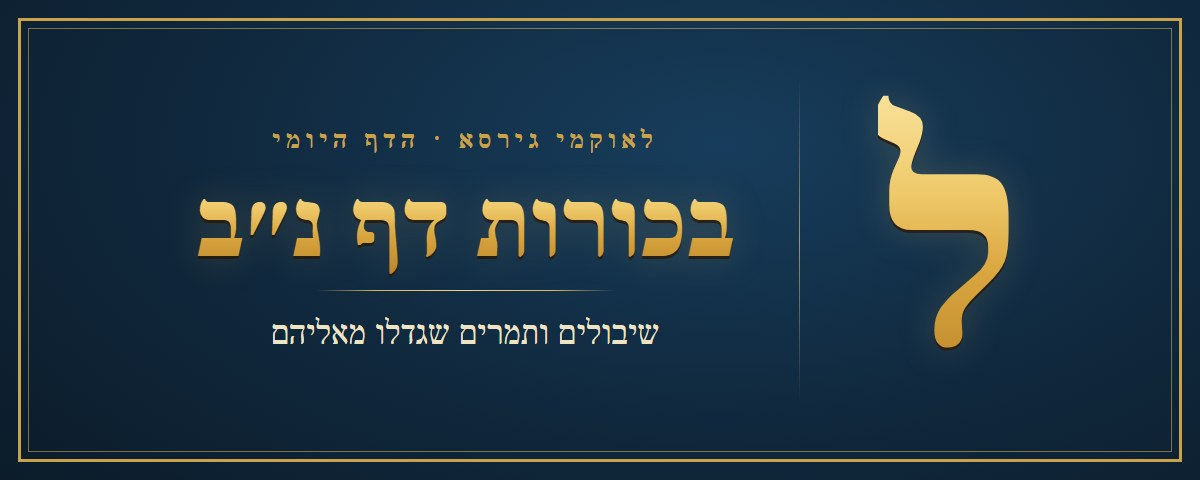
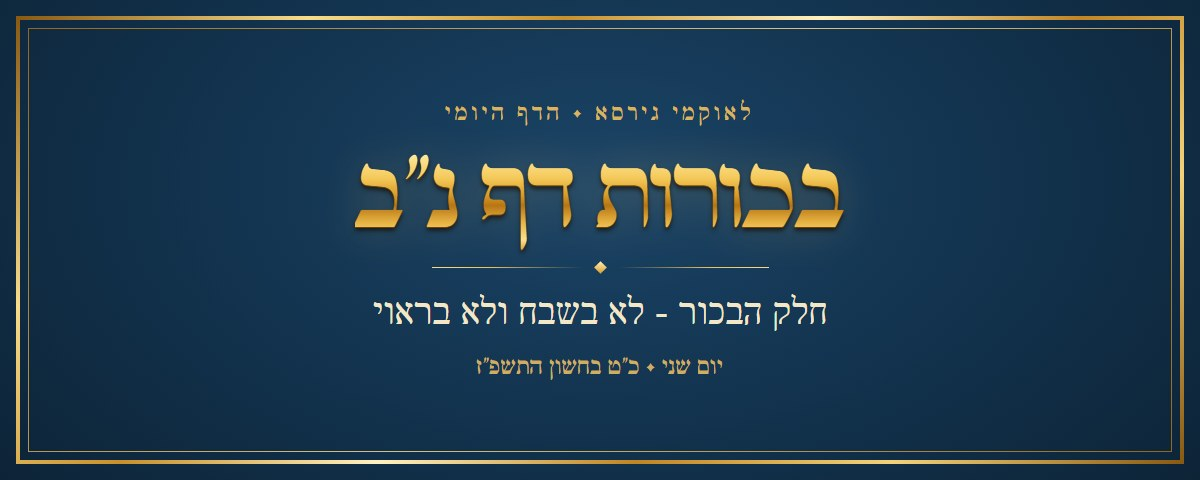
הדף היומי, לפי בעל הפרויקט: הכרטיס בלי ל', בגופן BA Vilna, זהב עשיר ועם היום והתאריך; כותרת מגדירה לכל דף במקום עניין צדדי; ההודעה - השאלה מודגשת ראשונה, בלי 'הידעת', 'עוד X דפים' בגופן קוד, הקישור בסוף

Changed region(s): [[0.1542, 0.2188, 0.7092, 0.8125], [0.0, 0.0312, 0.9867, 0.9688], [0.7092, 0.1875, 0.8633, 0.75]]

diff --git a/tools/daf_wa/card.html b/tools/daf_wa/card.html
@@ -1,37 +1,57 @@
 <!DOCTYPE html>
 <html lang="he" dir="rtl"><head><meta charset="utf-8">
 <style>
-/* כרטיס התצוגה המקדימה של הדף (פרומפט 23): 1200x480, בשפת הסמל של האתר (og-image): כחול קטיפה, מסגרת זהב כפולה, ל' מזהב.
+/* כרטיס התצוגה המקדימה של הדף (פרומפט 23): 1200x480, כחול קטיפה ומסגרת זהב כפולה.
    כל התוכן בתוך המרכז (917 פיקסלים), כדי שגם חיתוך ליחס 1.91 (פייסבוק ודומיו) לא יקצץ אותו.
-   8.11.2026 (בעל הפרויקט): שם הדף בוילנא, הכרטיס נמוך - שלא יתפוס יותר מדי מן המסך, ונראות מכובדת. בלי רקעי הדגשה מאחורי טקסט. */
+   8.11.2026 ערב (בעל הפרויקט): בלי ה-ל' - מיותר; גופן וילנא של בית אלף (BA Vilna) שלו; זהב שנראה זהב;
+   היום והתאריך בתוך התמונה, כדי שלא יתפסו שורות בהודעה; והשורה שמתחת לשם הדף - כותרת שמגדירה את הדף, לא עניין צדדי. */
+@font-face{font-family:'BAV';src:url(@@BA_B@@);font-weight:700}
+@font-face{font-family:'BAV';src:url(@@BA_R@@);font-weight:400}
 @font-face{font-family:'Frank';src:url(@@FONTS@@/frank.woff2) format('woff2');font-weight:400}
-@font-face{font-family:'Vilna';src:url(@@FONTS@@/vilna-r.woff2) format('woff2');font-weight:400}
-@font-face{font-family:'Vilna';src:url(@@FONTS@@/vilna-b.woff2) format('woff2');font-weight:700}
 html,body{margin:0;width:1200px;height:480px;overflow:hidden}
-body{background:radial-gradient(90% 120% at 60% 30%,#173d5c 0%,#10283d 48%,#0a1824 100%);font-family:'Frank',serif;position:relative}
-.f1{position:absolute;inset:18px;border:3px solid #c9a24a}
-.f2{position:absolute;inset:28px;border:1px solid rgba(214,180,100,.55)}
-.gold{background:linear-gradient(180deg,#fbe7a6 0%,#efc96a 38%,#d9a53f 62%,#b98327 100%);-webkit-background-clip:text;background-clip:text;color:transparent;
-      filter:drop-shadow(0 3px 0 rgba(40,24,6,.75)) drop-shadow(0 0 18px rgba(240,200,110,.18))}
-.lam{position:absolute;right:178px;top:50%;transform:translateY(-52%);font-family:'Vilna',serif;font-weight:700;font-size:330px;line-height:1}
-.sep{position:absolute;right:400px;top:78px;bottom:78px;width:1px;background:linear-gradient(180deg,transparent,rgba(214,180,100,.75),transparent)}
-.txt{position:absolute;right:420px;left:150px;top:0;bottom:0;display:flex;flex-direction:column;align-items:center;justify-content:center;text-align:center}
-.brand{font-family:'Vilna',serif;font-weight:700;font-size:27px;letter-spacing:.2em;color:#c9a24a}
-.daf{font-family:'Vilna',serif;font-weight:700;font-size:104px;line-height:1.08;margin:10px 0 6px;white-space:nowrap}
-.rule{width:300px;height:1.5px;background:linear-gradient(90deg,transparent,#d6b464 20%,#f0d690 50%,#d6b464 80%,transparent);margin:6px 0 18px}
-.line{font-family:'Frank',serif;font-size:36px;line-height:1.3;color:#efe3c4;max-width:620px}
+body{background:radial-gradient(85% 130% at 50% 38%,#1b4467 0%,#11304a 45%,#0a1a28 100%);font-family:'Frank',serif;position:relative}
+/* מסגרת זהב: פס רחב בשיפוע מתכתי, ופס דק בתוכו */
+.f1{position:absolute;inset:16px;border:4px solid transparent;border-image:linear-gradient(135deg,#8a5a12,#f7dc8a 18%,#c8902c 34%,#fff1bf 50%,#c08524 66%,#f3d27a 82%,#8a5a12) 1}
+.f2{position:absolute;inset:28px;border:1px solid transparent;border-image:linear-gradient(135deg,#a8741d,#f6dc90 50%,#a8741d) 1;opacity:.85}
+.gold{background:linear-gradient(180deg,#fff8d6 0%,#ffe9a0 18%,#f4c95a 38%,#d99a26 52%,#b77514 60%,#e8b545 74%,#fbe08c 88%,#c98a1e 100%);
+      -webkit-background-clip:text;background-clip:text;color:transparent;
+      filter:drop-shadow(0 1px 0 #6b4308) drop-shadow(0 3px 2px rgba(20,10,0,.65)) drop-shadow(0 0 22px rgba(255,205,100,.22))}
+.txt{position:absolute;right:150px;left:150px;top:0;bottom:0;display:flex;flex-direction:column;align-items:center;justify-content:center;text-align:center}
+.brand{font-family:'BAV',serif;font-weight:400;font-size:26px;letter-spacing:.18em;color:#d9b45e}
+.daf{font-family:'BAV',serif;font-weight:700;font-size:118px;line-height:1.05;margin:4px 0 2px;white-space:nowrap}
+.rule{display:flex;align-items:center;gap:14px;margin:6px 0 14px}
+.rule i{display:block;width:150px;height:1.5px;background:linear-gradient(90deg,transparent,#e6c063 60%,#f7dc8a)}
+.rule i:last-child{background:linear-gradient(270deg,transparent,#e6c063 60%,#f7dc8a)}
+.rule b{display:block;width:9px;height:9px;transform:rotate(45deg);background:linear-gradient(135deg,#fff1bf,#d99a26)}
+.line{font-family:'Frank',serif;font-size:40px;line-height:1.25;color:#f3e7c8;max-width:840px;white-space:nowrap}
+.date{font-family:'BAV',serif;font-weight:400;font-size:27px;color:#cfae63;margin-top:16px;letter-spacing:.04em}
 </style></head><body>
 <div class="f1"></div><div class="f2"></div>
-<div class="lam gold">ל</div>
-<div class="sep"></div>
 <div class="txt">
   <div class="brand">לאוקמי גירסא · הדף היומי</div>
   <div class="daf gold">@@DAF@@</div>
-  <div class="rule"></div>
+  <div class="rule"><i></i><b></b><i></i></div>
   <div class="line">@@LINE@@</div>
+  <div class="date" id="date" data-iso="@@DATE@@"></div>
 </div>
 <script>
-/* שם מסכת ארוך: מקטינים עד שנכנס בשורה אחת */
-window.fit=function(){var d=document.querySelector('.daf'),w=d.parentNode.clientWidth,f=104;d.style.fontSize=f+'px';while(d.scrollWidth>w&&f>60){f-=4;d.style.fontSize=f+'px'}};fit();
+/* היום והתאריך העברי - אותו חישוב כמו בשרת (Intl, לוח עברי) */
+(function(){
+  var el=document.getElementById('date'),k=el.getAttribute('data-iso');
+  if(!/^\d{4}-\d{2}-\d{2}$/.test(k)){el.remove();return}
+  var DAY=864e5,dn=Math.floor(Date.UTC(+k.slice(0,4),+k.slice(5,7)-1,+k.slice(8,10))/DAY),w=((dn%7)+11)%7;
+  var L1=[[400,'ת'],[300,'ש'],[200,'ר'],[100,'ק'],[90,'צ'],[80,'פ'],[70,'ע'],[60,'ס'],[50,'נ'],[40,'מ'],[30,'ל'],[20,'כ'],[10,'י'],[9,'ט'],[8,'ח'],[7,'ז'],[6,'ו'],[5,'ה'],[4,'ד'],[3,'ג'],[2,'ב'],[1,'א']];
+  function lt(n){if(n===15)return 'טו';if(n===16)return 'טז';var t='';L1.forEach(function(p){while(n>=p[0]){t+=p[1];n-=p[0]}});return t.replace(/יה$/,'טו').replace(/יו$/,'טז')}
+  function gq(n){var t=lt(n);return t.length>1?t.slice(0,-1)+'״'+t.slice(-1):t+'׳'}
+  var MB={Tishri:'בתשרי',Heshvan:'בחשון',Kislev:'בכסלו',Tevet:'בטבת',Shevat:'בשבט',Adar:'באדר','Adar I':'באדר א׳','Adar II':'באדר ב׳',Nisan:'בניסן',Iyar:'באייר',Sivan:'בסיון',Tamuz:'בתמוז',Av:'באב',Elul:'באלול'};
+  var DOW=['יום ראשון','יום שני','יום שלישי','יום רביעי','יום חמישי','יום שישי','שבת קודש'],o={};
+  new Intl.DateTimeFormat('en-u-ca-hebrew',{timeZone:'UTC',day:'numeric',month:'long',year:'numeric'}).formatToParts(new Date(dn*DAY+432e5)).forEach(function(p){o[p.type]=p.value});
+  el.textContent=DOW[w]+' · '+gq(+o.day)+' '+(MB[o.month]||o.month)+' ה'+gq(+o.year%1000);
+})();
+/* שם מסכת ארוך או כותרת ארוכה: מקטינים עד שנכנסים בשורה אחת */
+window.fit=function(){
+  var w=document.querySelector('.txt').clientWidth;
+  [['.daf',118,64],['.line',40,26]].forEach(function(a){var d=document.querySelector(a[0]),f=a[1];d.style.fontSize=f+'px';while(d.scrollWidth>w&&f>a[2]){f-=2;d.style.fontSize=f+'px'}});
+};fit();
 </script>
 </body></html>

diff --git a/worker/leokmei-daf/src/index.js b/worker/leokmei-daf/src/index.js
@@ -102,23 +102,25 @@ function dafimFor(k) {
 }
 
 /* ---------- הרכבת ההודעה (סעיף 2) ---------- */
-const lineOf = (c, i, bold) => '◂ ' + (bold ? '*' + c.lines[i].t.replace(/\*/g, '') + '*' : c.lines[i].t);
+const lineOf = (c, i) => '◂ ' + c.lines[i].t.replace(/\*/g, '');
+/* מבנה ההודעה (הכרעת בעל הפרויקט, 8.11.2026 ערב):
+   השאלה ראשונה ומודגשת - ורק היא מודגשת (בלי הכותרת "הידעת?"), ולכן ההודעה מיושרת לימין;
+   שם הדף, היום והתאריך - בתוך הכרטיס שבתצוגה המקדימה, לא בשורות ההודעה;
+   "עוד X דפים" בגופן קוד של ווטסאפ; והקישור בסוף (התצוגה המקדימה נבנית ממנו גם שם). */
 function compose(meta, items, rec) {
   const first = items[0], c0 = first.c;
   const pick = rec && Number.isInteger(rec.pick) && c0.alts && c0.alts[rec.pick] ? c0.alts[rec.pick] : null;
   const hook = pick || c0.hook;
-  const same = items.every((x) => x.slug === first.slug);
-  const labels = items.map((x) => gq(x.n));
-  const title = '*הדף היומי · ' + first.name + ' ' + (same ? labels.join('-') : labels[0]) + (same ? '' : ' ועוד') + '*';
-  const out = ['leokmei.com/daf/' + first.slug + '-' + first.n, title, meta.line, '', '*הידעת?*', hook.q, ''];
+  const out = ['*' + String(hook.q).replace(/\*/g, '') + '*', ''];
   items.forEach((x, j) => {
-    out.push(items.length > 1 ? '*' + x.name + ' ' + gq(x.n) + ' בקצרה*' : '*הדף בקצרה*');
-    x.c.lines.forEach((_, i) => out.push(lineOf(x.c, i, j === 0 && i === hook.ans)));
+    out.push(items.length > 1 ? x.name + ' ' + gq(x.n) + ' בקצרה' : 'הדף בקצרה');
+    x.c.lines.forEach((_, i) => out.push(lineOf(x.c, i)));
     if (j > 0) out.push('לדף המלא: leokmei.com/daf/' + x.slug + '-' + x.n);
     out.push('');
   });
   const last = items[items.length - 1], left = last.last - last.n;
-  out.push(left > 0 ? 'עוד ' + left + (left === 1 ? ' דף' : ' דפים') + ' לסיום ' + last.name : 'היום מסיימים את מסכת ' + last.name);
+  out.push('```' + (left > 0 ? 'עוד ' + left + (left === 1 ? ' דף' : ' דפים') + ' לסיום ' + last.name : 'היום מסיימים את מסכת ' + last.name) + '```');
+  out.push('leokmei.com/daf/' + first.slug + '-' + first.n);
   return out.join('\n');
 }
 

diff --git a/tools/daf_wa/board.html b/tools/daf_wa/board.html
@@ -39,6 +39,7 @@ h2{font-family:'Vilna',serif;font-size:19px;margin:22px 0 8px;color:var(--blue)}
 .links a{color:var(--blue)}
 textarea{width:100%;min-height:330px;font-family:inherit;font-size:15px;line-height:1.5;padding:8px;border:1px solid #c9b993;border-radius:8px;direction:rtl}
 .wa{background:var(--wabg);border-radius:10px;padding:10px}
+.wa code{font-family:Consolas,'Courier New',monospace;font-size:.92em}
 .bub{background:var(--wa);border-radius:8px;padding:4px 4px 8px;box-shadow:0 1px .5px rgba(0,0,0,.13);font-family:system-ui,'Segoe UI',Arial,sans-serif;font-size:14.2px;line-height:1.42;color:#111}
 .pv{background:#d9f2c9;border-radius:6px;overflow:hidden;margin-bottom:6px}
 .pv img{display:block;width:100%;aspect-ratio:1200/480;object-fit:cover;background:#123049}
@@ -81,7 +82,7 @@ function login(err){
 }
 var STATE={auto:'יישלח אוטומטית',approved:'אושר - יישלח',sent:'נשלח',await:'ממתין לאישורך',missing:'חסר תוכן שנבדק - לא יישלח',stopped:'נעצר - לא יישלח',holy:'אין שליחה',pilot:'פיילוט - לעיון ואישור'};
 function wa(t){
-  return esc(t).replace(/\*([^*\n]+)\*/g,'<b>$1</b>').replace(/(^|\s)(leokmei\.com\/[^\s]*)/g,'$1<a href="https://$2" target="_blank" rel="noopener">$2</a>');
+  return esc(t).replace(/```([^`\n]+)```/g,'<code>$1</code>').replace(/\*([^*\n]+)\*/g,'<b>$1</b>').replace(/(^|\s)(leokmei\.com\/[^\s]*)/g,'$1<a href="https://$2" target="_blank" rel="noopener">$2</a>');
 }
 function bubble(v){
   var f=v.dafim[0]||{};

diff --git a/tools/daf_wa/card.py b/tools/daf_wa/card.py
@@ -1,5 +1,5 @@
 # -*- coding: utf-8 -*-
-"""כרטיס התצוגה המקדימה של כל דף (פרומפט 23): 1200x480 JPEG ל-og:image (8.11.2026: נמוך יותר, לבקשת בעל הפרויקט).
+"""כרטיס התצוגה המקדימה של כל דף (פרומפט 23): 1200x480 JPEG ל-og:image (8.11.2026: נמוך יותר, בלי ל', בגופן BA Vilna ועם היום והתאריך - לבקשת בעל הפרויקט).
 
 רץ אצל מי שכותב את תוכן ההודעה (שיחה במחשב או משימה בענן), אחרי שהבודק אישר את התוכן,
 ושומר ל-data/daf-wa/og/<slug>-<n>.jpg. הבנייה באתר רק מעתיקה (build.py) - כדי שבניית האתר
@@ -28,16 +28,43 @@ def assets():
     raise SystemExit('עצירה: לא נמצאו גופני האתר')
 
 
+def ba_fonts():
+    """גופן וילנא של בית אלף (BA Vilna) - של בעל הפרויקט, ברישיון שלו. אינו נשמר במאגר (המאגר ציבורי): במחשב שלו נלקח מן הגופנים
+    המותקנים, ובבנייה בענן - מסוד (LEOKMEI_BA_FONTS: תיקייה עם ba-vilna-b.otf ו-ba-vilna-r.otf). אין גופן - עצירה רועשת, לא כרטיס בגופן אחר."""
+    import base64
+    cands = []
+    if os.environ.get('LEOKMEI_BA_FONTS'):
+        d = os.environ['LEOKMEI_BA_FONTS']
+        cands.append((os.path.join(d, 'ba-vilna-b.otf'), os.path.join(d, 'ba-vilna-r.otf')))
+    d = os.path.join(os.environ.get('LOCALAPPDATA', ''), 'Microsoft', 'Windows', 'Fonts')
+    cands.append((os.path.join(d, 'BA Vilna Bold.otf'), os.path.join(d, 'BA Vilna Regular.otf')))
+    for b, r in cands:
+        if os.path.exists(b) and os.path.exists(r):
+            u = lambda f: 'data:font/otf;base64,' + base64.b64encode(open(f, 'rb').read()).decode()
+            return u(b), u(r)
+    msg = 'גופן BA Vilna לא נמצא (לא במחשב ולא בסוד LEOKMEI_BA_FONTS) - הכרטיסים לא צוירו'
+    if os.environ.get('CI'):
+        # בבנייה בענן: התראה רועשת ביומן הבנייה, בלי להפיל את פרסום האתר כולו. הדף יוצא בלי כרטיס משלו (build.py רושם אותו כחסר).
+        print('::error::' + msg)
+        return None
+    raise SystemExit('עצירה: ' + msg)
+
+
 def render(jobs):
     from playwright.sync_api import sync_playwright
     fonts, gate = assets()
-    tpl = io.open(os.path.join(HERE, 'card.html'), encoding='utf-8').read().replace('@@FONTS@@', fonts).replace('@@GATE@@', gate)
+    ba = ba_fonts()
+    if not ba:
+        return
+    bab, bar = ba
+    tpl = (io.open(os.path.join(HERE, 'card.html'), encoding='utf-8').read().replace('@@FONTS@@', fonts).replace('@@GATE@@', gate)
+           .replace('@@BA_B@@', bab).replace('@@BA_R@@', bar))
     os.makedirs(OG, exist_ok=True)
     with sync_playwright() as p:
         b = p.chromium.launch()
         pg = b.new_page(viewport={'width': 1200, 'height': 480}, device_scale_factor=1)
-        for name, daf, line in jobs:
-            pg.set_content(tpl.replace('@@DAF@@', H.escape(daf)).replace('@@LINE@@', H.escape(line)), wait_until='load')
+        for name, daf, line, iso in jobs:
+            pg.set_content(tpl.replace('@@DAF@@', H.escape(daf)).replace('@@LINE@@', H.escape(line)).replace('@@DATE@@', iso), wait_until='load')
             pg.evaluate('document.fonts.ready.then(() => window.fit && window.fit())')
             pg.wait_for_timeout(150)
             out = os.path.join(OG, name + '.jpg')
@@ -47,6 +74,10 @@ def render(jobs):
 
 
 def main(args):
+    import datetime as dt
+    sys.path.insert(0, HERE)
+    import build
+    L, today = build.cycle(), dt.date.today()
     jobs = []
     for f in sorted(os.listdir(DATA)):
         if not f.endswith('.json'):
@@ -58,10 +89,11 @@ def main(args):
         out = os.path.join(OG, name + '.jpg')
         if not args and os.path.exists(out) and os.path.getmtime(out) >= os.path.getmtime(os.path.join(DATA, f)):
             continue
-        jobs.append((name, '%s דף %s' % (c['masechet'], c['daf'].replace('"', '״')), c.get('card') or ''))
+        iso = build.date_of(c['slug'], int(c['n']), today, L).isoformat()   # היום שבו הדף נלמד במחזור הקרוב
+        jobs.append((name, '%s דף %s' % (c['masechet'], c['daf'].replace('"', '״')), c.get('card') or '', iso))
     if not args or '_general' in args:
         if args or not os.path.exists(os.path.join(OG, '_general.jpg')):
-            jobs.append(('_general', 'קיצור הדף היומי', 'כל יום - הדף בקצרה, בתצוגה קלה לטלפון'))
+            jobs.append(('_general', 'קיצור הדף היומי', 'כל יום - הדף בקצרה, בתצוגה קלה לטלפון', ''))
     render(jobs)
 
 

diff --git a/docs/הדף-היומי-כותב.md b/docs/הדף-היומי-כותב.md
@@ -14,7 +14,7 @@
 ד. **כתיבה.** לכל דף - `data/daf-wa/<slug>-<n>.json`, בדיוק במבנה של `data/daf-wa/bekhorot-32.json` (דוגמאות נוספות: bekhorot-51 עד 61, arakhin-2 עד 4):
    - `hook`: שאלת "הידעת?" אחת, קצרה (עד כחמש עשרה מילים), שמושכת לקרוא - מעשה, פלא, משפט חז"ל או חידוש הלכתי. `kind` אחד מארבעה אלה. `ans` = אינדקס השורה (מ-0) שעונה עליה.
    - `alts`: שתי שאלות חלופיות באותו מבנה, מסוגים אחרים.
-   - `card`: כותרת קצרה לכרטיס (עד כחמש מילים), מן הדף.
+   - `card`: כותרת שמגדירה את הדף ומסכמת אותו (עד כשש מילים) - הנושא העיקרי או שניים, כמו כותרת פרק: "חלק הבכור - לא בשבח ולא בראוי". **לא** עניין צדדי שהוזכר בדרך אגב ולא פיתיון (הכרעת בעל הפרויקט, 8.11.2026). היא מופיעה בכרטיס מתחת לשם הדף ובתצוגה המקדימה של הקישור.
    - `lines`: ארבע עד שש שורות, לפי סדר הדף. כל שורה טענה אחת או שתיים, מובנת לבעל בית, ובסופה `ref` - עמוד ומספרי השורות בקובץ המקור ("נא. 7, 9" / "נב: 1-2" / "נא: 12 · נב. 2").
    - מן הגמרא בלבד: `data/sources/<slug>.json`. בלי אתרים חיצוניים, בלי פירושים שאינם בדף, בלי פסיקה מעשית. הסבר קצר למילה קשה - בסוגריים מרובעים [ ]. ציטוט ארמי - במירכאות, עם תרגום בסוגריים כשאינו ברור.
    - בלי מקף ארוך או בינוני. מפריד - " - ".

diff --git a/_work/daf_wa_checker.md b/_work/daf_wa_checker.md
@@ -10,7 +10,7 @@
 1. **נאמנות לגמרא.** כל טענה בשורה (מי אמר, מה הדין, המקור מן הפסוק, המעשה) כתובה בגמרא בשורות שב-ref או בסמוך להן. ייחוס שגוי (שם חכם לא נכון, הפיכת מחלוקת, דין הפוך) - כישלון.
 2. **אין תוספת שאינה בגמרא.** מותר הסבר קצר בסוגריים מרובעים [ ] למילה קשה, ובלבד שהוא נכון ואינו מוסיף דין או סיפור. הסבר שגוי או מרחיב - כישלון.
 3. **ref נכון.** השורות שבמראה המקום מכילות את מה שהשורה אומרת (מותר הפרש של שורה-שתיים). ref שמצביע למקום אחר - כישלון (ציין את הנכון).
-4. **שאלות.** כל `hook` ו-`alts`: השאלה נענית באמת מן השורה ש-`ans` מצביע עליה, והיא נאמנה לגמרא. `card` אינו טוען דבר שאינו בדף.
+4. **שאלות.** כל `hook` ו-`alts`: השאלה נענית באמת מן השורה ש-`ans` מצביע עליה, והיא נאמנה לגמרא. `card` אינו טוען דבר שאינו בדף, והוא כותרת שמגדירה את עיקר הדף - לא עניין צדדי (אם הוא צדדי: ממצא, עם הצעת כותרת).
 5. **לשון.** עברית תקינה ומובנת לבעל בית; ציטוט ארמי מותר רק במירכאות ועם תרגום או כשהוא ברור מן ההקשר. אין מקף ארוך או בינוני (– —) בשום מקום.
 6. **הלימה לדף.** רוב השורות מן הדף עצמו (עמוד א או ב של אותו מספר). שורה מן הדף הקודם מותרת רק כפתיחה להמשך.
 
